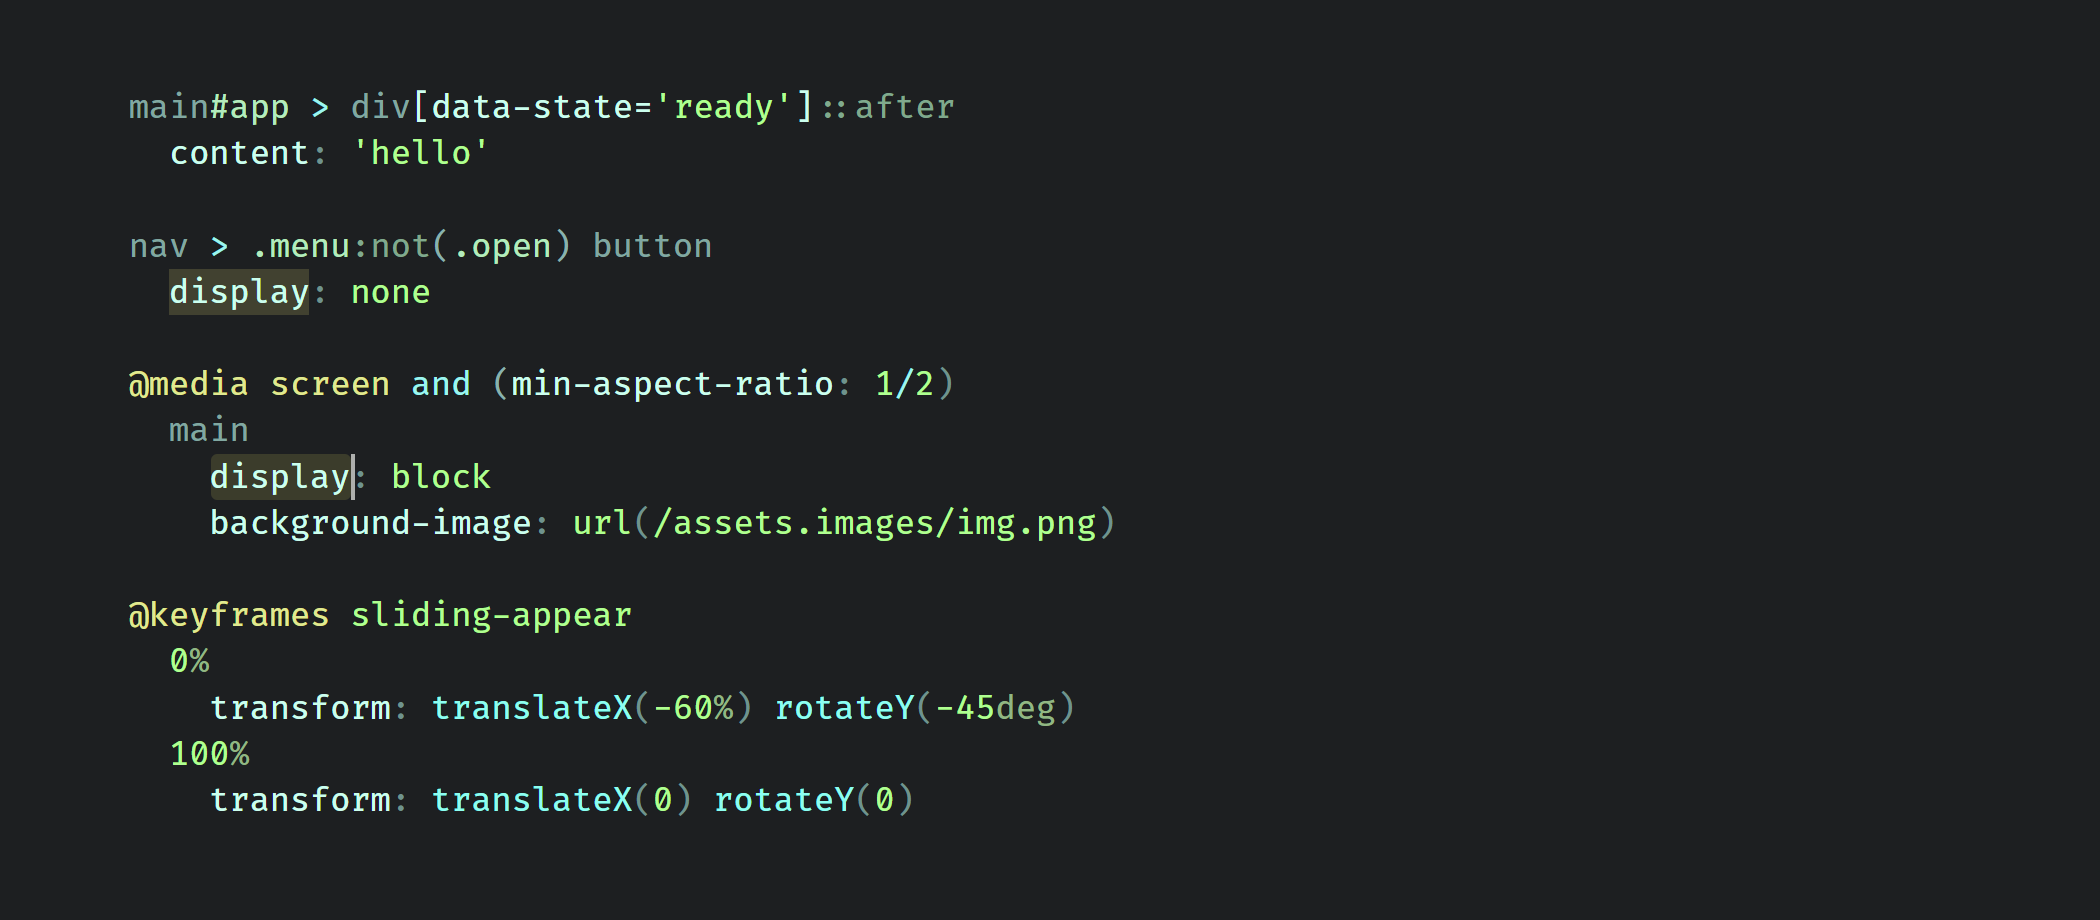
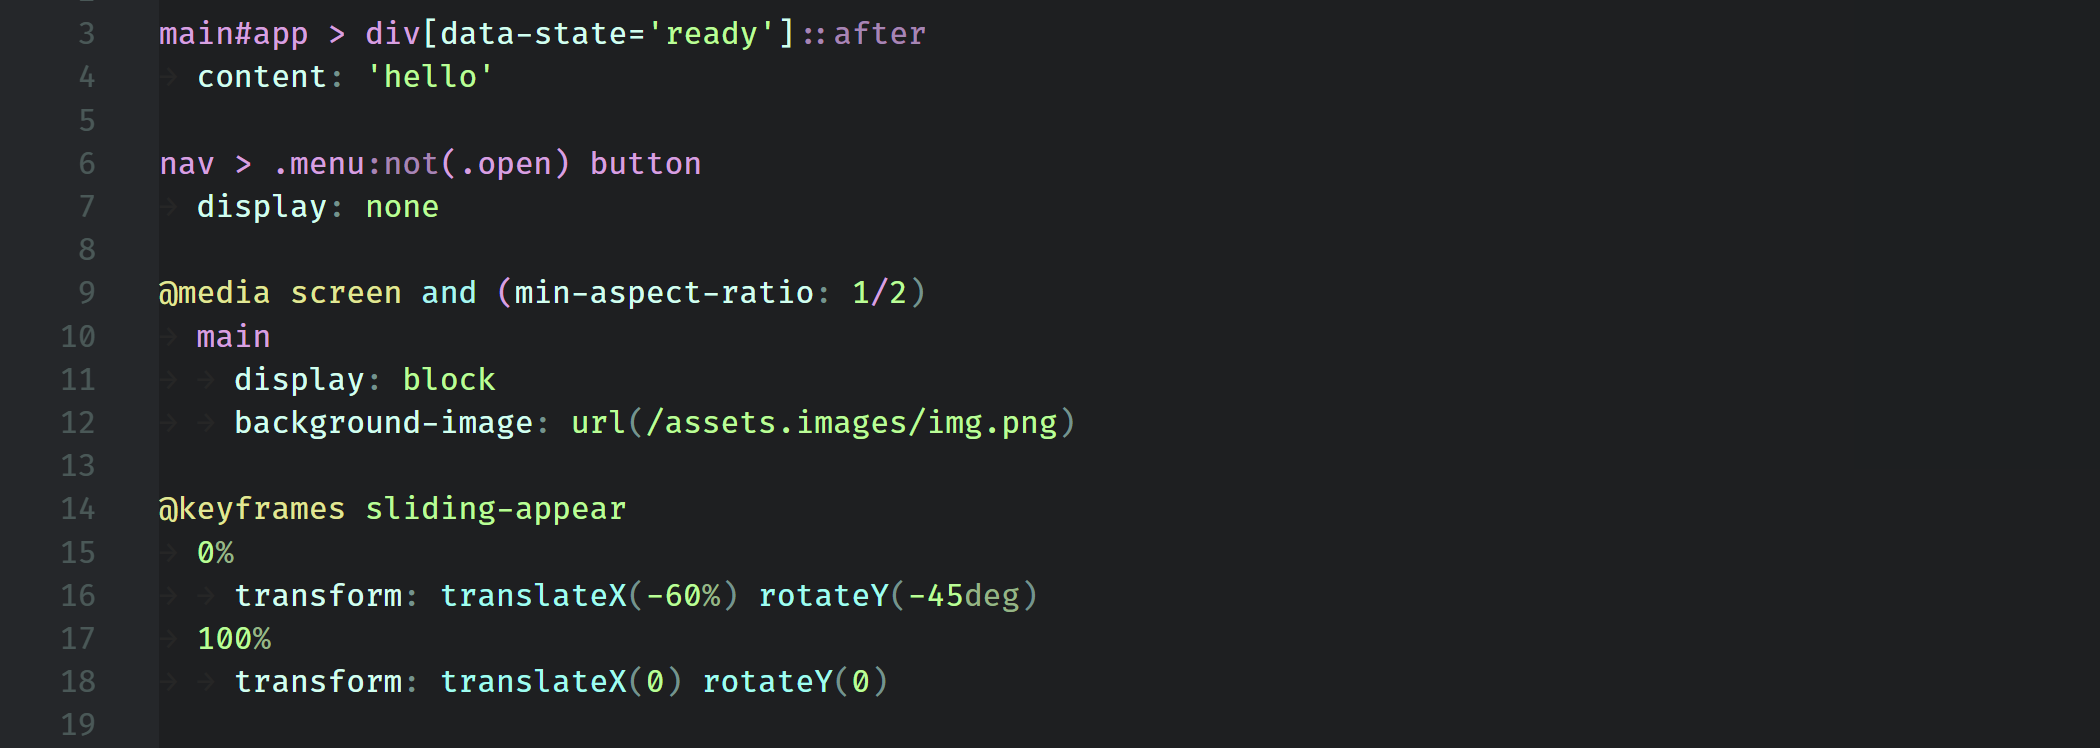
added goals

diff --git a/syntax-demos/js.js b/syntax-demos/js.js
@@ -5,7 +5,9 @@
  * 	minimal (e.g. single color for all values)
  * 	consistant colors, chosen and hierarchised according to their brightness
  *	darker colors for symbols to keep the focus on names
- *
+ *	try when possible to use context for even better consistancy: 
+ 		e.g. quotes on object keys adopt a similar blue as keys, 
+		while string quotes adopt a dark green similar to values.
  */	
 // line comment 
 /* block comment */
